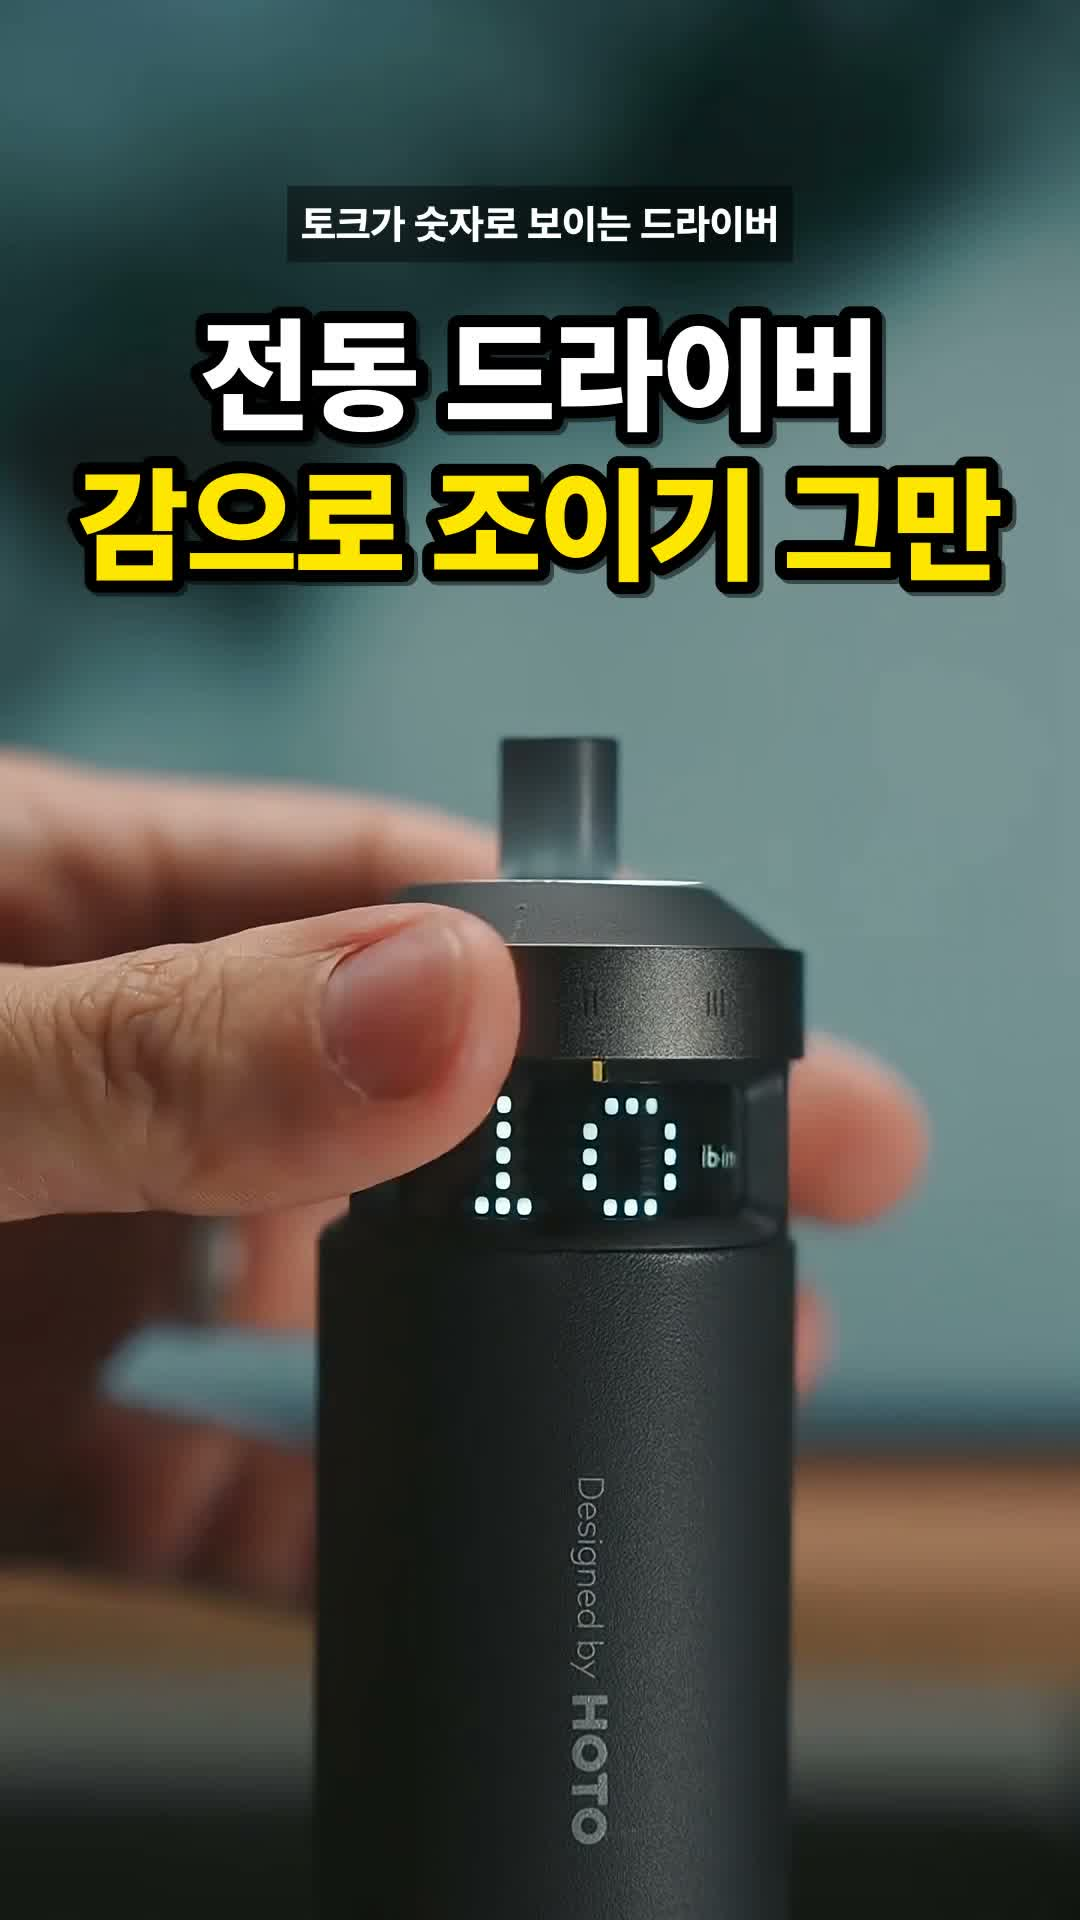
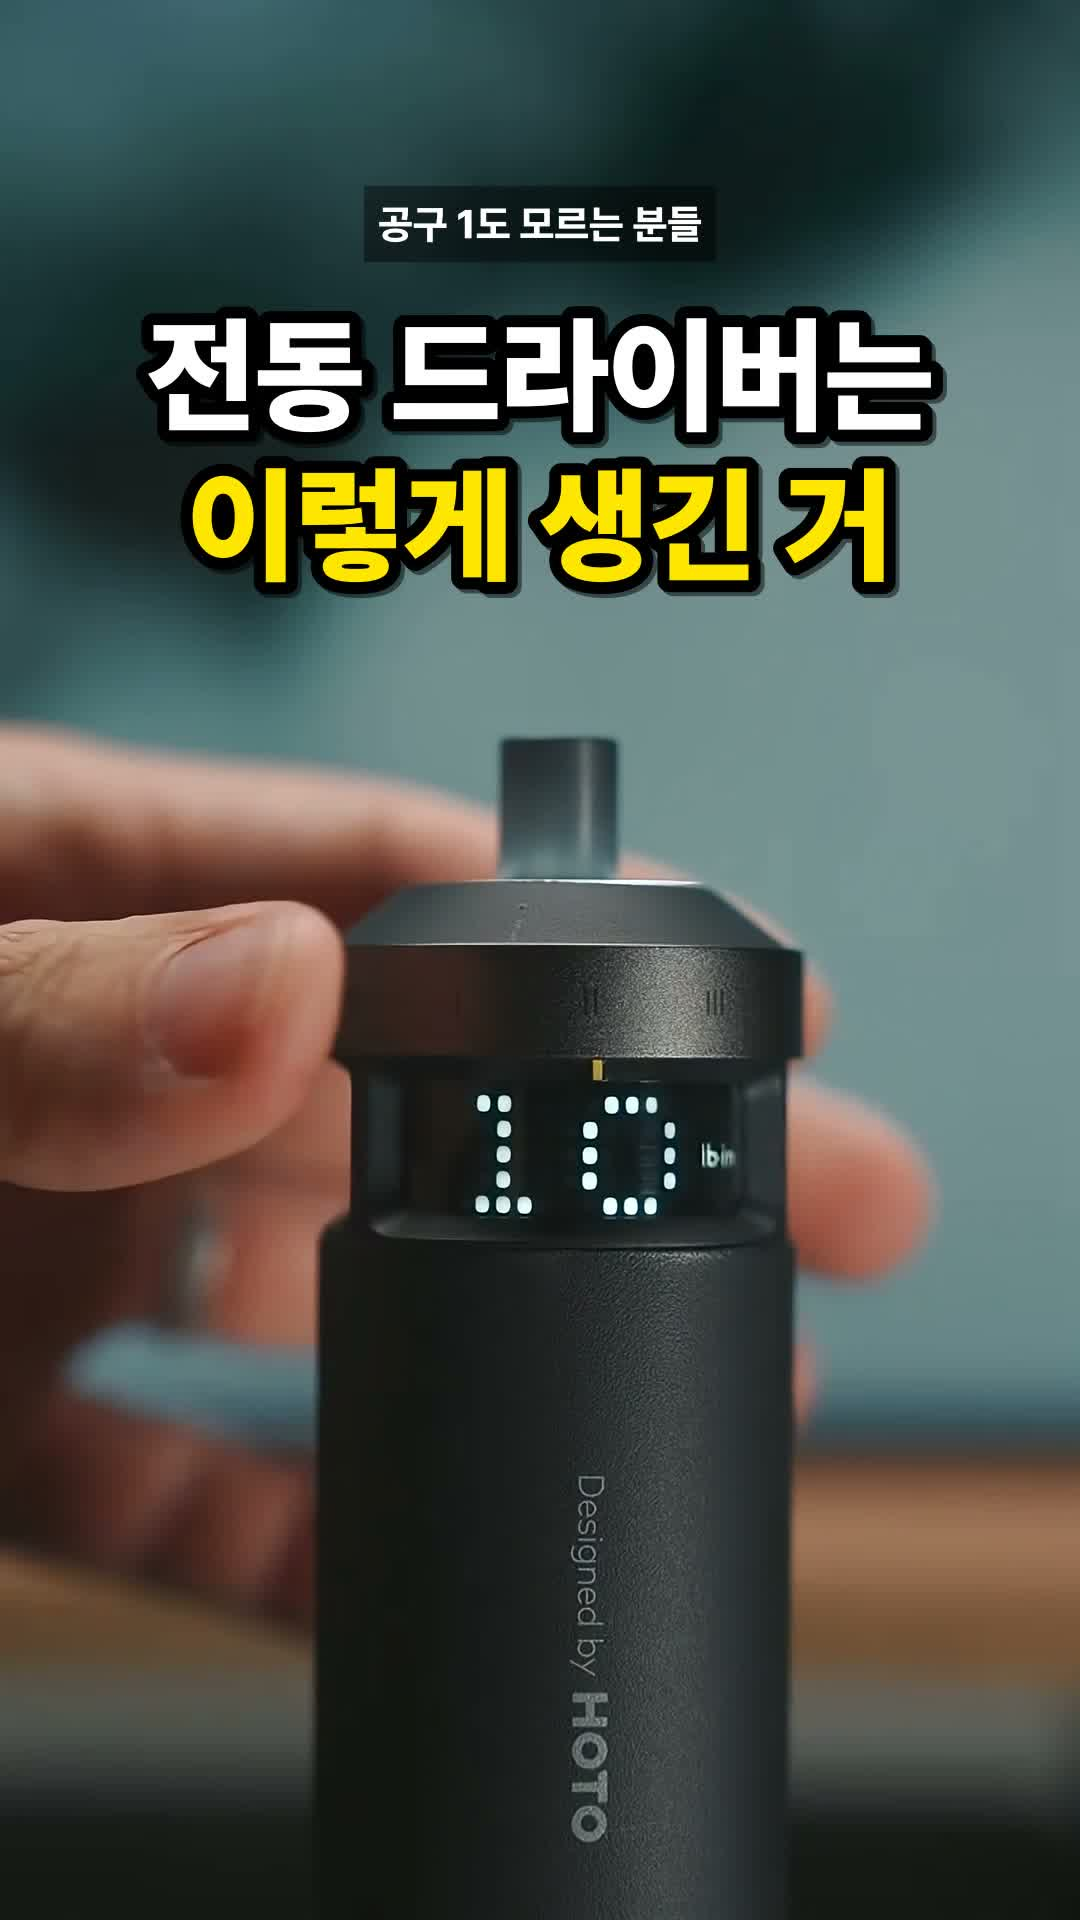
11/5 영상 교체(O7rVpCrR3OE)

diff --git a/index.html b/index.html
@@ -11,8 +11,8 @@ main{max-width:540px;padding:16px 14px 26px}.brand{font-size:20px}.search{margin
 #clever-tools .purchase-conditions{border-top:0;padding:8px 0 0;font-size:12px;line-height:1.5;color:#705523}
 #clever-tools .purchase-conditions summary{font-size:12px;font-weight:650;min-height:30px}
 #clever-tools .purchase-conditions p{margin:6px 0 0}
-</style></head><body><main><div class="brand"><span class="mark">사기 전</span>사기전노트</div><div class="search"><input id="q" type="search" aria-label="상품 이름 검색" placeholder="영상 속 제품을 검색하세요 (예: 릴케이블)" autocomplete="off"><button id="clear-search" type="button" aria-label="검색어 지우기" hidden>지우기</button></div><nav class="views" aria-label="제품 찾기"><button type="button" id="latest-view" aria-pressed="true">전체 제품 (최신순)</button><button type="button" id="catalog-view" aria-pressed="false">영상별로 찾기</button></nav><p id="status" class="search-note" aria-live="polite" hidden></p><div id="catalog" hidden><div class="catalog-heading"><h1>다른 영상의 제품</h1><p id="video-count"></p></div><div id="video-list" class="video-list"></div></div><section data-theme="pixeldrive" id="pixeldrive" data-video-id="y4J1MM2XxdQ" data-video-title="전동 드라이버, 감으로 조이기 그만" data-cover="pixeldrive1105-cover.jpg" data-cover-kind="cover" data-keywords="전동 드라이버 전동드라이버 무선드라이버 스크류드라이버 호토 HOTO 픽셀드라이브 PixelDrive 토크 비트 가구조립 캣타워 공구" hidden data-visible-from="2026-11-05T19:00:00+09:00">
-<h1>전동 드라이버, 감으로 조이기 그만</h1><p class="intro">영상 속 제품이에요.</p>
+</style></head><body><main><div class="brand"><span class="mark">사기 전</span>사기전노트</div><div class="search"><input id="q" type="search" aria-label="상품 이름 검색" placeholder="영상 속 제품을 검색하세요 (예: 릴케이블)" autocomplete="off"><button id="clear-search" type="button" aria-label="검색어 지우기" hidden>지우기</button></div><nav class="views" aria-label="제품 찾기"><button type="button" id="latest-view" aria-pressed="true">전체 제품 (최신순)</button><button type="button" id="catalog-view" aria-pressed="false">영상별로 찾기</button></nav><p id="status" class="search-note" aria-live="polite" hidden></p><div id="catalog" hidden><div class="catalog-heading"><h1>다른 영상의 제품</h1><p id="video-count"></p></div><div id="video-list" class="video-list"></div></div><section data-theme="pixeldrive" id="pixeldrive" data-video-id="O7rVpCrR3OE" data-video-title="전동 드라이버는 이렇게 생긴 거" data-cover="pixeldrive1105-cover.jpg" data-cover-kind="cover" data-keywords="전동 드라이버 전동드라이버 무선드라이버 스크류드라이버 호토 HOTO 픽셀드라이브 PixelDrive 토크 비트 가구조립 캣타워 공구" hidden data-visible-from="2026-11-05T19:00:00+09:00">
+<h1>전동 드라이버는 이렇게 생긴 거</h1><p class="intro">영상 속 제품이에요.</p>
 <article class="card" id="pixeldrive-1"><div class="row"><div class="photo"><img src="pixeldrive1105.jpg" alt="끝에 불이 들어온 HOTO 픽셀드라이브" width="1080" height="1920" loading="lazy"><span class="num">1</span></div><div><h2>HOTO 픽셀드라이브 전동 드라이버</h2><p class="benefit">조이는 힘이 화면에 숫자로 보이고, 끝에 불이 들어와요. 비트 통이 그대로 케이스예요</p><p class="option">QWLSD014 · 비트 30종 세트</p><p class="shipping">판매자 배송 · 구매 옵션 확인</p></div></div><a class="cta" href="https://link.coupang.com/a/h9Qe0FKBfo" target="_blank" rel="sponsored noopener">쿠팡에서 상품 보기</a></article>
 <details><summary>구성과 사용 조건 확인하기</summary><p>HOTO PixelDrive(QWLSD014) 모델이에요. 쿠팡 상품평이 아직 적은 제품이라 판매자 정보와 배송일을 꼭 확인해 주세요. 비트 구성은 구매 화면에서 확인해 주세요.</p><p>영상 속 가구·장난감 자동차는 포함되지 않아요. 최종 가격·구성·배송·재고는 쿠팡 구매 화면에서 확인해 주세요.</p></details></section><section data-theme="car-vacuum" id="car-vacuum" data-video-id="qL5SwWwllag" data-video-title="흡입력 약한 차량용 청소기는 그만" data-cover="autocare1104-cover.jpg" data-cover-kind="cover" data-keywords="차량용 청소기 차량청소기 무선청소기 핸디청소기 미니청소기 에어건 송풍기 호토 HOTO AutoCare 세차 시트 틈 컵홀더 반려견 털 압축팩" hidden data-visible-from="2026-11-04T19:00:00+09:00">
 <h1>흡입력 약한 차량용 청소기는 그만</h1><p class="intro">영상 속 제품이에요.</p>
